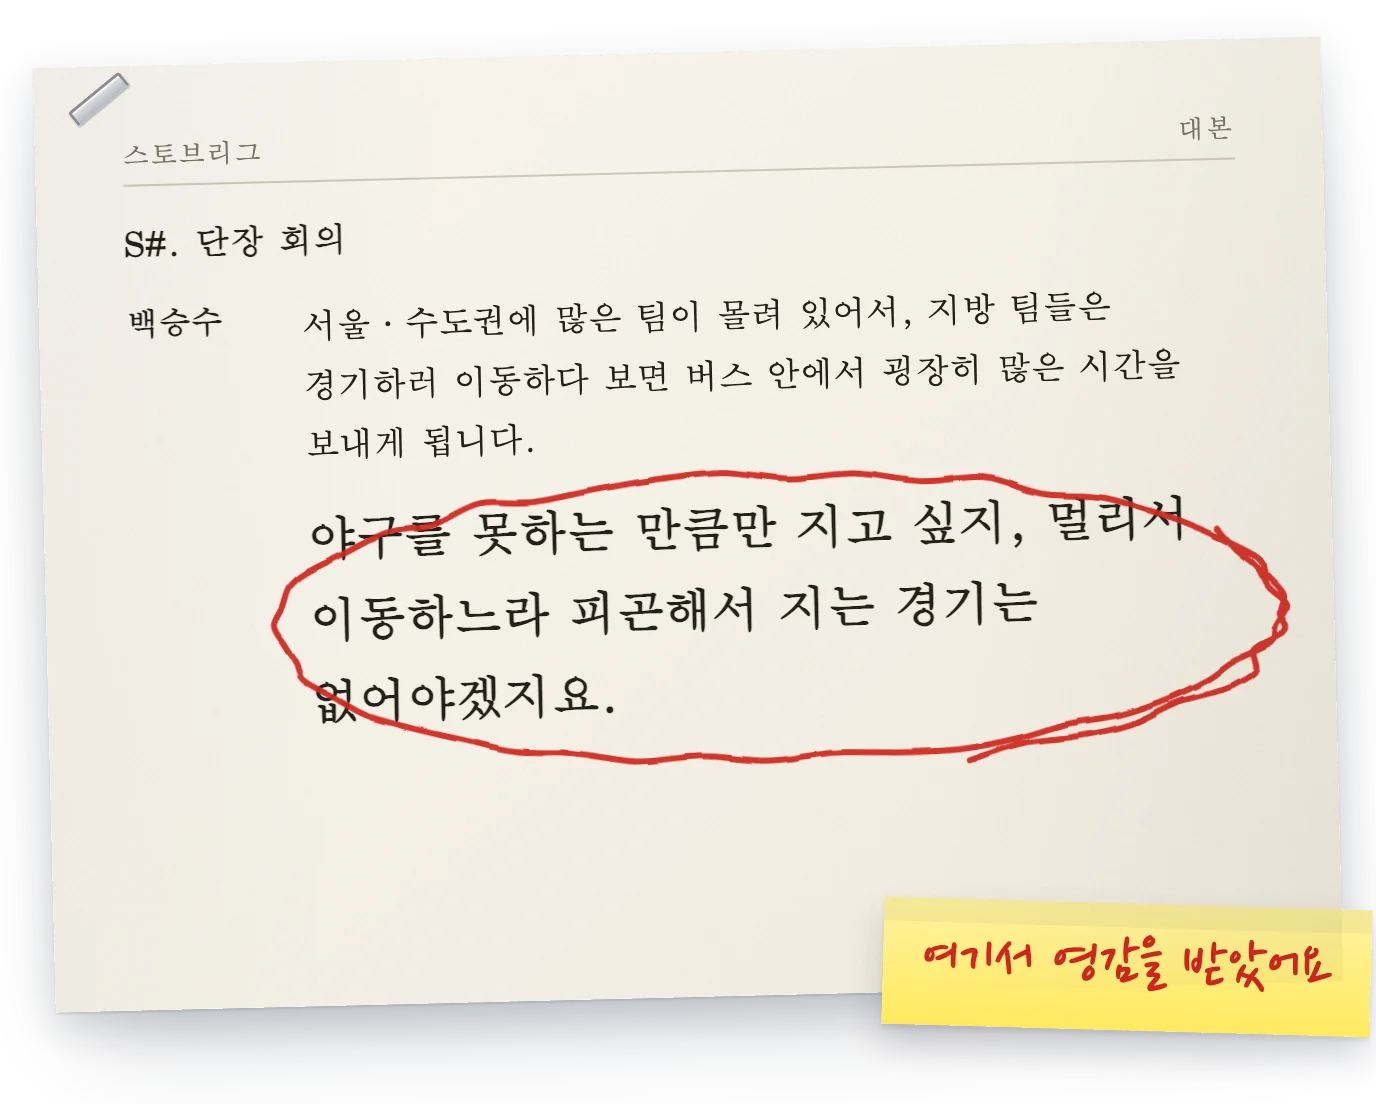
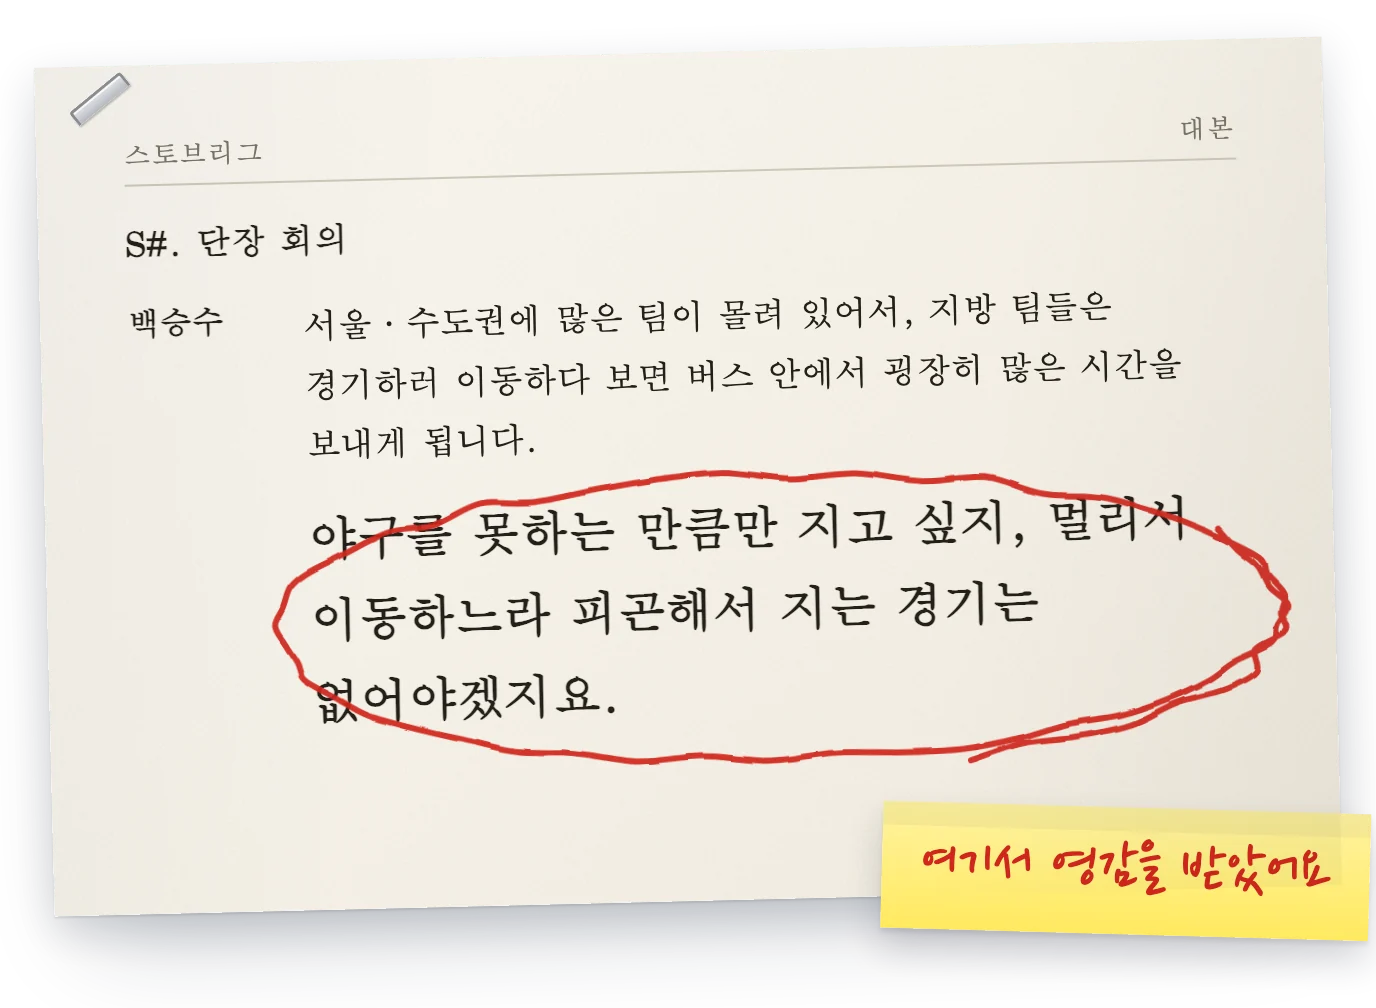
보여주는 문 첫 화면: 대본 그림 종이 아래 빈칸 줄이기(PC 48px, 휴대폰 20px)

diff --git a/ui/tools/show/script-img/render.html b/ui/tools/show/script-img/render.html
@@ -22,7 +22,7 @@ body { box-sizing: border-box; padding: 26px 22px 30px; }
 .say p { margin: 0 0 10px; font-size: 15px; line-height: 1.75; word-break: keep-all; }
 .say p.key { font-size: 18px; font-weight: 700; line-height: 1.7; display: inline-block; padding: 2px 4px; margin-left: -4px; }
 .note { position: relative; display: inline-block; margin: 28px 0 0; font-family: 'Nanum Pen Script', 'Jua', cursive; font-size: 27px; line-height: 1.1; color: #d0271d; transform: rotate(-2.5deg); white-space: nowrap; }
-.foot { height: 26px; }
+.foot { height: 22px; }
 svg.ink { position: absolute; inset: 0; width: 100%; height: 100%; overflow: visible; pointer-events: none; }
 .staple { position: absolute; left: 10px; top: 7px; width: 24px; height: 7px; transform: rotate(-38deg); border: 1.5px solid #8d9096; border-bottom: 0; border-radius: 2px 2px 0 0; box-shadow: inset 0 1px 0 #fff, 0 1px 1px rgba(0,0,0,.25); background: linear-gradient(#e9ebee, #b9bdc4); }
 .holes { position: absolute; left: 12px; top: 0; bottom: 0; width: 14px; }
@@ -43,7 +43,7 @@ svg.ink { position: absolute; inset: 0; width: 100%; height: 100%; overflow: vis
 .w688 .say p { font-size: 17px; }
 .w688 .say p.key { font-size: 24px; }
 .w688 .note { font-size: 34px; margin-top: 36px; }
-.w688 .foot { height: 40px; }
+.w688 .foot { height: 24px; }
 .w688 .staple { left: 16px; top: 12px; width: 30px; }
 .w688 .sticky { width: 220px; font-size: 32px; right: -14px; bottom: -22px; }
 </style>
@@ -89,7 +89,7 @@ svg.ink { position: absolute; inset: 0; width: 100%; height: 100%; overflow: vis
   if (V === 'c' || V === 'd') { // 포스트잇: 메모 글을 종이 오른쪽 아래에 붙인 쪽지로(d는 빨간 펜 글씨)
     note.parentNode.removeChild(note);
     var st = document.createElement('div'); st.className = 'sticky'; st.textContent = '여기서 영감을 받았어요'; if (V === 'd') st.style.color = color; paper.appendChild(st);
-    document.getElementById('noteWrap').style.height = (W >= 688 ? 48 : 40) + 'px';
+    document.getElementById('noteWrap').style.height = (W >= 688 ? 16 : 24) + 'px';
   } else { note.style.color = color; if (V === 'b') { note.style.transform = 'rotate(-1.5deg)'; } }
   // 종이를 돌리기 전 좌표로 잰다(svg도 종이 안에 있어 같이 돈다)
   paper.style.transform = 'none';

diff --git a/ui/show/index.html b/ui/show/index.html
@@ -89,8 +89,8 @@
     <!-- 대본 한 장은 그림(2026-11-01, 사용자: CSS 종이가 아쉬움 → 실제 대본처럼). 종이·스테이플·빨간 펜 동그라미·포스트잇 손글씨 메모(사용자 선택: 빨간 펜 + 포스트잇)를 그림에 구워 둔다. 휴대폰(343폭)·PC(688폭) 두 장, 2배 해상도, 배경 투명. 다시 만들기: ui/tools/show/script-img/render.sh. 쪽 제목 h1과 "기준은?" 질문은 그림 아래 글로 -->
     <figure class="sh-q1c">
       <picture>
-        <source media="(min-width: 768px)" srcset="stove-script-pc.webp" width="1376" height="1104">
-        <img src="stove-script-m.webp" width="686" height="1132" alt="드라마 대본 한 장. S#. 단장 회의. 백승수: 서울·수도권에 많은 팀이 몰려 있어서, 지방 팀들은 경기하러 이동하다 보면 버스 안에서 굉장히 많은 시간을 보내게 됩니다. 야구를 못하는 만큼만 지고 싶지, 멀리서 이동하느라 피곤해서 지는 경기는 없어야겠지요. 이 대사에 빨간 펜으로 동그라미를 치고, 노란 포스트잇에 '여기서 영감을 받았어요'라고 적어 붙여 두었어요.">
+        <source media="(min-width: 768px)" srcset="stove-script-pc.webp" width="1376" height="1008">
+        <img src="stove-script-m.webp" width="686" height="1092" alt="드라마 대본 한 장. S#. 단장 회의. 백승수: 서울·수도권에 많은 팀이 몰려 있어서, 지방 팀들은 경기하러 이동하다 보면 버스 안에서 굉장히 많은 시간을 보내게 됩니다. 야구를 못하는 만큼만 지고 싶지, 멀리서 이동하느라 피곤해서 지는 경기는 없어야겠지요. 이 대사에 빨간 펜으로 동그라미를 치고, 노란 포스트잇에 '여기서 영감을 받았어요'라고 적어 붙여 두었어요.">
       </picture>
       <figcaption class="sh-q1c-foot">드라마 스토브리그 · SBS 금토드라마 · 2019~2020 · 백상예술대상 드라마 작품상</figcaption>
     </figure>
